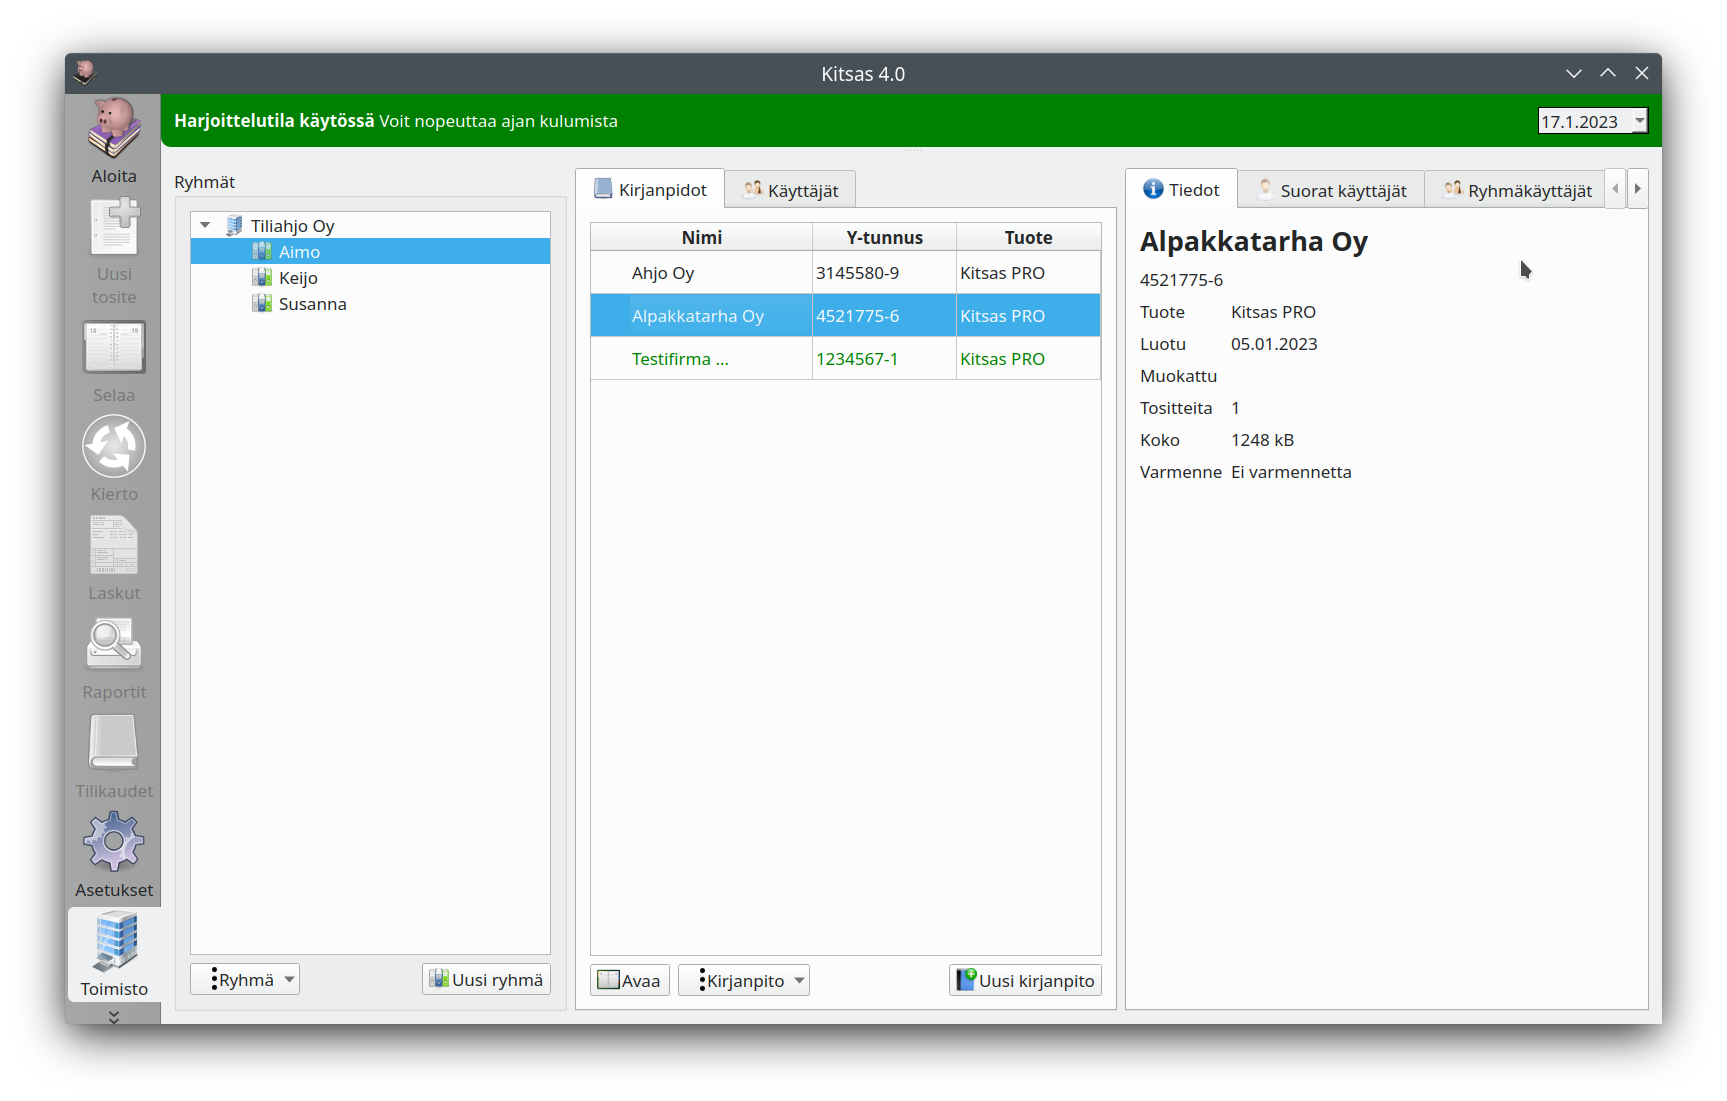
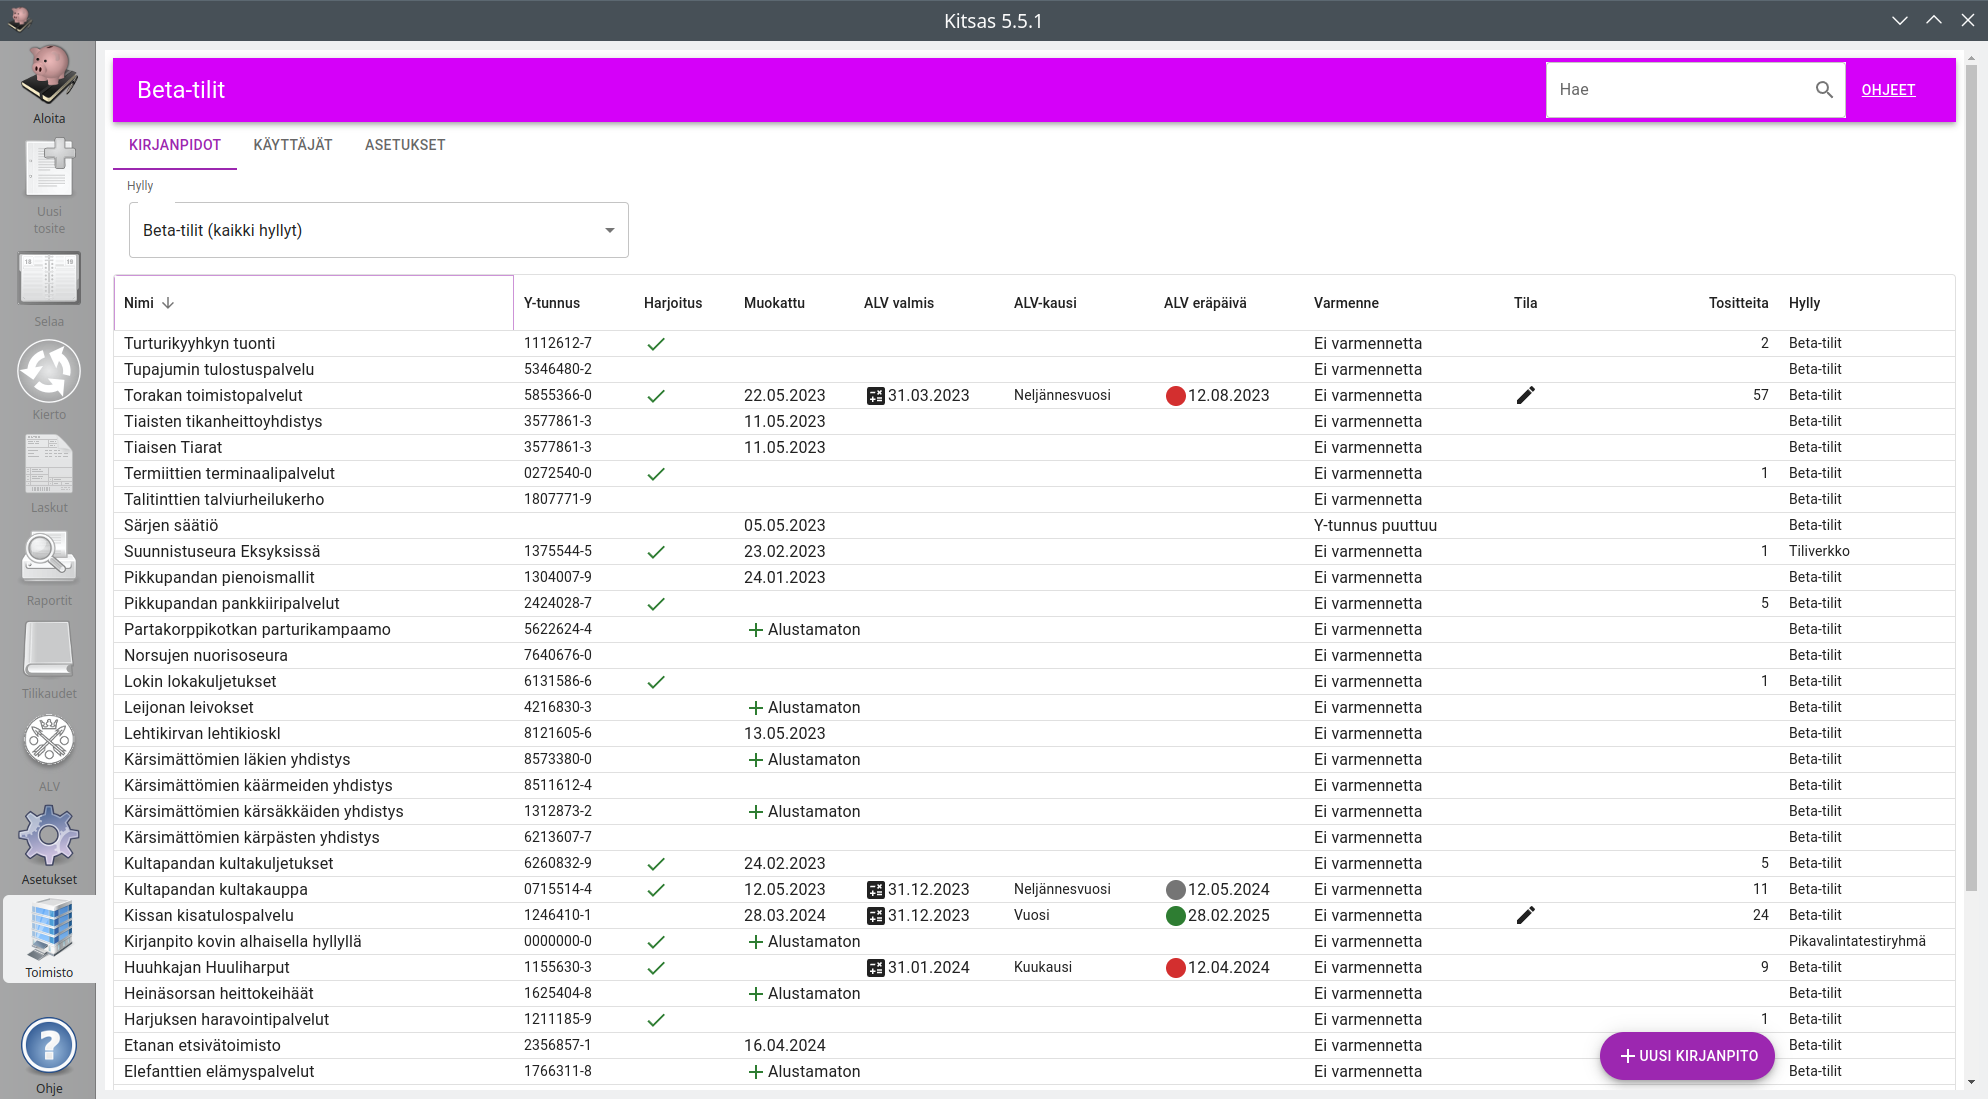
Toimistonäkymän ohjeita

diff --git a/content/fi/docs/toimisto/_index.md b/content/fi/docs/toimisto/_index.md
@@ -17,53 +17,29 @@ Lue lisää [Kitsas Pro:n tuotesivuilta](/pro)
 
 ## Tilitoimistonäkymä
 
+Tilitoimistonäkymässä voit mm. tarkastella kirjanpitojen tietoja, luoda uusia kirjanpitoja,  myöntää käyttöoikeuksia, järjestellä toimiston kirjanpidot hyllyihin ja ottaa tilitoimistolle käyttöön verohallinnon varmenteen.  Käyttäjälle näytettävät toiminnot ja kohteet määräytyvät käyttäjällä olevien [roolien ja lisäkäyttöoikeuksien]({{<relref "roolit">}}) perusteella.   
+
+### Kirjanpitojen lista
+
 ![](/img/fi/toimisto/toimisto.png)
 
-Tilitoimistonäkymän etusivulla on lista kirjanpidoista. Oletuksena listassa ovat kaikki tilitoimiston kirjanpidot, jos käyttäjällä on toimistotason oikeus tilitoimistonäkymään. Listan yläpuolella olevasta pudotusvalikosta voi valita tarkasteltavan hyllyn (vastaa aiemman version ryhmää). 
+ Tilitoimistonäkymän etusivulla on lista kirjanpidoista. Oletuksena listassa ovat kaikki tilitoimiston kirjanpidot, jos käyttäjällä on toimistotason oikeus tilitoimistonäkymään. Listan yläpuolella olevasta pudotusvalikosta voi valita tarkasteltavan hyllyn (vastaa aiemman version ryhmää). 
 
+Valitsemalla kirjanpidon rivin listasta saa näkyviin Avaa- ja Tiedot- napit. Muut toiminnot löytyvät Tiedot-napin takaa avautuvalta kirjanpidon omalta sivulta. Pääset sinne myös hakemalla yläpalkin hakukentässä kirjanpidon nimellä tai y-tunnuksella. Avaa- nappi on näkyvissä, jos käyttäjällä on kirjanpitoon mitä tahansa kirjanpito-oikeuksia. Tukikirjautuminen tehdään omasta napistaan kirjanpidon tietojen sivulta. 
 
-Käyttäjälle näytettävät kohteet määräytyvät käyttäjälle olevien [käyttöoikeuksien]({{<relref "kayttajat">}}) perusteella.
+### Uuden kirjanpidon perustaminen
 
-### Kirjanpidot
-
-Valitsemalla kirjanpidon rivin listasta saa näkyviin Avaa- ja Tiedot- napit. Muut toiminnot löytyvät Tiedot-napin takaa avautuvalta kirjanpidon omalta sivulta. Pääset sinne myös hakemalla yläpalkin hakujentässä kirjanpidon nimellä tai y-tunnuksella. Avaa- nappi on näkyvissä, jos käyttäjällä on kirjanpitoon mitä tahansa kirjanpito-oikeuksia. Tukikirjautuminen tehdään omasta napistaan kirjanpidon tietojen sivulta. 
-
-#### Uuden kirjanpidon perustaminen
-
-Kun haluamasi ryhmä on valittuna, paina **Uusi kirjanpito**-painiketta sivun oikeassa alakulmassa, ja syötä asiakasyrityksen perustiedot.
+Paina **Uusi kirjanpito**-painiketta sivun oikeassa alakulmassa, valitse hylly johon kirjanpito luodaan ja syötä asiakasyrityksen perustiedot.
 
 Uuden kirjanpidon kohdalla on Muokkaa-sarakkeesa vihreä plus-merkki ja teksti "Alustamaton". Kun kirjanpito avataan ensimmäistä kertaa, tehdään [kirjanpidon alustaminen]({{<relref "alustaminen">}}) ohjattuna toimintona.
 
-#### Kirjanpitojen listan järjestäminen ja suodattaminen
+### Kirjanpitojen listan järjestäminen ja suodattaminen
 
 Kirjanpitojen listan voi järjestää halutun sarakkeen mukaan klikkaamalla sarakkeen otsikkosolua tai valitsemalla haluamasi järjestyksen sarakkeen otsikkosolun valikosta (kolme pistettä).   Solussa näkyvä nuoli kertoo järjestyksen suunnan. Solua klikkamalla vaihdetaan nousevan, laskevan ja järjestämättömän (ei nuolta) välillä. Järjestää voi vain yhden sarakkeen perusteella kerrallaan. Toimistonäkymä muistaa valitsemasi järjestyksen palatessasi. 
 
-Voit suodattaa näytettäviä kirjanpitojvalitsemalla sarakkeen otsikkosolun valikosta "Suodata". Käytössä on enintään yksi suodatus kerrallaan. Toimistonäkymä muistaa käyttämäsi suodatuksen kunnes poistut toimistonäkymästä tai suljet ohjelman. 
+Voit suodattaa näytettäviä kirjanpitoja valitsemalla sarakkeen otsikkosolun valikosta **Suodata**. Käytössä on enintään yksi suodatus kerrallaan. Toimistonäkymä muistaa käyttämäsi suodatuksen kunnes poistut toimistonäkymästä tai suljet ohjelman. 
 
-##### Kirjanpitojen listan sarakkeiden kustomointi
+### Kirjanpitojen listan sarakkeiden kustomointi
 
-Voit tarvittaessa piilottaa haluamasi sarakkeen näkyvistävalitsemalla sarakkeen otsikkosolun valikosta"Piilota". Voit palauttaa sarakkeen näkyviin tai piilottaa useamman sarakkeen kerralla valitsemalla minkä tahansa sarakkeen otsikkosolun valikosta "Hallitse sarakkeita". Toimistonäkymä muistaa palatessasi mitkä sarakkeet näytetään.  
-
-
-
-
-### Käyttäjät
-
-Välilehdellä näytetään ryhmään liittyvät käyttöoikeudet, katso [käyttäjät ja käyttöoikeudet]({{<relref "kayttajat">}})
-
-### Kirjanpidon tiedot
-
-Kun kirjanpito on valittuna, näytetään oikeanpuoleisimmassa sarakkeessa kirjanpidon tarkempia tietoja
-
-#### Perustiedot
-
-Kirjanpidon nimi, tuote, tilastotietoja ja varmenteen tila.
-
-#### Suorat käyttäjät
-
-Käyttäjät, joilla on tähän nimenomaiseen kirjanpitoon erikseen määritelty käyttöoikeus. Suora käyttöoikeus voidaan määrittää esimerkiksi yrittäjälle tai tilintarkastajalle.
-
-#### Ryhmäkäyttäjät
-
-Käyttäjät, joille on käyttöoikeus tähän kirjanpitoon ryhmään (kirjanpidon ryhmä tai sen yläpuolella oleva ryhmä) kuulumisen perusteella.
+Voit tarvittaessa piilottaa haluamasi sarakkeen näkyvistä valitsemalla sarakkeen otsikkosolun valikosta **Piilota**. Voit palauttaa sarakkeen näkyviin tai piilottaa useamman sarakkeen kerralla valitsemalla minkä tahansa sarakkeen otsikkosolun valikosta **Hallitse sarakkeita**. Toimistonäkymä muistaa palatessasi mitkä sarakkeet näytetään.  
 

diff --git a/content/fi/docs/toimisto/kayttajat.md b/content/fi/docs/toimisto/kayttajat.md
@@ -1,56 +1,28 @@
 ---
 title: "Käyttäjät"
 linkTitle: "Käyttäjät"
-weight: 10
+weight: 30
 pro: true
 description: >
-  Käyttäjien ja käyttöoikeuksien määritteleminen
+  Käyttäjien tarkastelu ja työntekijöiden lisääminen
 ---
 
-## Ryhmä- ja käyttäjäkohtaiset oikeudet
+## Käyttäjät
 
-**Ryhmäkohtaiset oikeudet** koskevat ryhmän kaikkia kirjanpitoja sekä kaikkia alaryhmiä, joille kyseiselle käyttäjälle ei ole erikseen määritelty oikeuksia. Tilitoimiston työntekijöille on suositeltavaa määritellä oikeudet ryhmätasolla, jolloin niiden hallinta on yksinkertaisempaa.
+ Käyttäjät-osiossa on omat välilehdet työntekijöille ja muille käyttäjille. Voit tarkastella käyttäjiä ja lisätä ja poistaa toimiston työntekijöitä. Käyttäjät muokkaavat itse tietojaan Kitsaan asetusten Minä-sivulta. 
 
-Ryhmän voisi ajatella mappikaapiksi ja ryhmäoikeuden avaimeksi tähän kaappiin. Tällöin toimistotasolle myönnetty käyttöoikeus vastaisi yleisavainta toimiston kaikkiin mappikaappeihin.
+### Työntekijät
 
-**Suorat oikeudet** ovat yksittäiseen kirjanpitoon liittyviä oikeuksia, esimerkiksi yrittäjälle itselleen tai tilintarkastajalle.
-
-## Oikeuksien määritteleminen
+Voit lisätä työntekijäksi uuden käyttäjän. (Vanhoille käyttäjille voi tilitoimistonäkymästä vain myöntää oikeuksia hyllyihin ja kirjanpitoihin.) Pääset tarkastelemaan työntekijän oikeuksia tarkemmin klikkaamalla työntekijän nimeä listassa. Työntekijän poistaminen poistaa käyttäjän kaikki oikeudet ja poistaa käyttäjätunnuksen käytöstä. Käyttäjätunnuksen palauttamiseksi käyttöön on otettava yhteyttä käyttäjätukeen.
 
 Ryhmään lisätään käyttäjä **Käyttäjät**-välilehden **Uusi käyttäjä**-painikkeesta. Samalla välilehdellä on painikkeet myös oikeuksien muokkaamiselle ja käyttäjän poistamiselle ryhmästä.
 
 **Uusi käyttäjä**-painiketta käytetään riippumatta siitä, onko käyttäjällä jo käyttäjätunnus tai oikeuksia johonkin muuhun tilitoimiston ryhmään. Jos käyttäjätunnusta ei ole vielä olemassa, lähetetään käyttäjän sähköpostiin ohjeet ja linkki käyttäjätunnuksen aktivoimiseksi.
 
-## Käyttäjän oikeudet
+### Muut käyttäjät
 
-![](/img/fi/toimisto/ryhmaoikeudet.png)
+Tällä sivulla näkyvät (työntekijöitä lukuunottamatta) ne käyttäjät, joilla on oikeuksia johonkin tilitoimiston kirjanpitoon (tai hyllyyn). Pääset tarvittaessa tarkastelemaan käyttäjän oikeuksia tarkemmin klikkaamalla työntekijän nimeä listassa. 
 
-Käyttöoikeudet voidaan määritellä määräaikaisiksi (**Voimassa**-aikaväli) tai toistaiseksi voimassa oleviksi.
 
-Pikavalinnalla voit määritellä oikeudet jonkun aiemmin määritellyn [pikavalinnan]({{<relref "pikavalinnat">}}) mukaiseksi.
 
-### Kirjanpidon käyttöoikeudet
 
-Ryhmien **Tositeet**, **Laskut**, **Laskujen kierto**, **Raportit** ja **Ylläpito** valinnat ovat [kirjanpitojen käyttöoikeuksia]({{<relref "../asetukset/kayttooikeudet/#käyttöoikeudet">}}).
-
-Emme suosittele **Käyttöoikeuksien myöntäminen** -oikeuden käyttämistä tilitoimistoille. Valintaa tarvitaan oikeuksen hallintaan Asetukset-välilehden kautta, ja suosittelemme keskitettyä oikeuksien hallintaa **Toimisto**-välilehdellä (oikeudet **Yksittäisten käyttöoikeuksen myöntäminen** ja **Käyttäjäryhmien muokkaaminen**).
-
-### Ryhmään liittyvät oikeudet
-
-#### Tilitoimisto
-
-| Käyttöoikeus | Merkitys |
-|--------------|----------|
-| Kirjanpidon luominen  | Uuden kirjanpidon luominen |
-| Kirjanpidon siirtäminen ja poistaminen | Kirjanpitoon liittyvän tuotteen vaihtaminen, kirjanpidon siirtäminen (oikeus vaaditaan sekä nykyisessä että uudessä ryhmässä), kirjanpidon poistaminen
-| Yksittäisten käyttöoikeuksen myöntäminen | Yksittäisten kirjanpitokohtaisten oikeuksien myöntäminen tilitoimistonäkymässä, Kirjanpidon **Suorat käyttäjät**-välilehdellä. |
-| Tilitoimistonäkymä | Tilitoimistonäkymä ja kirjanpitojen selaaminen käyttäjälle, jolla ei ole muita tilitoimistojen  hallintaoikeuksia. |
-
-#### Hallinta
-| Käyttöoikeus | Merkitys |
-|--------------|----------|
-| Käyttäjäryhmien muokkaaminen | Ryhmäkohtaisten käyttöoikeuksien myöntäminen, muokkaaminen ja poistaminen |
-| Ryhmien muokkaaminen | Uusien ryhmien lisääminen, ryhmien uudelleennimeäminen ja poistaminen, pikavalintojen muokkaaminen |
-| Varmenteiden hallinta | Tilitoimiston varmenteen lisääminen ja poistaminen |
-| Kirjautumistietojen selaaminen | Kirjanpitojen kirjautumistietojen (käyttäjän nimi, kirjautumisten lukumäärä ja viimeisin kirjaaminen) näkeminen |
-| Tukikirjautuminen | Kirjautuminen Tukikirjautuminen-toiminnolla täysin oikeuksin kaikkiin ryhmän kirjanpitoihin |

diff --git a/content/fi/docs/toimisto/roolit.md b/content/fi/docs/toimisto/roolit.md
@@ -1,17 +1,39 @@
 ---
 title: "Roolit"
 linkTitle: "Roolit"
-weight: 30
-date: 2024-04-19
+weight: 20
+date: 2024-04-20
 keywords: ["rooli","roolit"]
 prp: true
 description: >
   Roolien tarkastelu, lisääminen ja muokkaaminen
 ---
 
-### Roolit
+![](/img/fi/toimisto/jarjestelmaoikeudet.png)
 
-Rooleilla määritellään joukko käyttöoikeuksia, jotka kaikilla roolin omaavilla käyttäjillä on.  Järjestelmäroolit on annettu valmiina eikä niitä voida toimistossa muokata. Toimiston omia rooleja voi lisätä, muokata ja poistaa. Kun roolia muokataan, roolin omaavien käyttäjien käyttöoikeudet päivittyvöt muokatun roolin mukaisiksi. Aiemmassa versiossa olleet pikavalinnat ovat roolien myötä poistuneet käytöstä. 
+Rooleilla määritellään joukko käyttöoikeuksia, jotka kaikilla roolin omaavilla käyttäjillä on.  Järjestelmäroolit on annettu valmiina eikä niitä voida toimistossa muokata. Toimiston omia rooleja voi lisätä, muokata ja poistaa. Kun roolia muokataan, roolin omaavien käyttäjien käyttöoikeudet päivittyvöt muokatun roolin mukaisiksi. Aiemmissa versiossa olleet pikavalinnat ovat roolien käyttönoton myötä poistuneet käytöstä. 
 
-Rooleja tarkastellaan ja muokataan toimistonäkymän asetusosiossa Roolit-sivulla. 
+### Kirjanpito-oikeudet
+
+Valinta **Kaikki kirjanpito-oikeudet** ja otsikoiden **Tositteet**, **Laskut**, **Laskujen kierto**, **Raportit**, **Työkalut** ja **Asetukset** ylimmäiset valinnat ovat useampia oikeuksia antavia koosteoikeuksia.
+
+<!-- 
+Emme suosittele **Käyttöoikeuksien myöntäminen** -oikeuden käyttämistä tilitoimistoille. Valintaa tarvitaan oikeuksen hallintaan Asetukset-välilehden kautta, ja suosittelemme keskitettyä oikeuksien hallintaa **Toimisto**-välilehdellä (oikeudet **Yksittäisten käyttöoikeuksen myöntäminen** ja **Käyttäjäryhmien muokkaaminen**). -->
+
+### Toimisto-oikeudet
+
+| Käyttöoikeus | Merkitys |
+|--------------|----------|
+| Kaikki toimiston hallintaoikeudet | Koosteoikeus joka käsittää kaikki alla olevat oikeudet
+| Toimistonäkymä | Tilitoimistonäkymä ja kirjanpitojen selaaminen 
+| Sertifikaattien hallinta | Tilitoimiston varmenteen lisääminen ja poistaminen |
+| Kirjanpitojen luominen  | Uuden kirjanpidon luominen |
+| Kirjanpitojenon siirtäminen ja poistaminen | Kirjanpitoon liittyvän tuotteen vaihtaminen, kirjanpidon siirtäminen (oikeus vaaditaan sekä nykyisessä että uudessä ryhmässä), kirjanpidon poistaminen
+| Kirjanpitohyllyjen hallinta | Hyllyjen lisääminen, uudelleennimeäminen ja poistaminen
+| Roolien hallinta | Toimiston omien roolien lisääminen, muokkaaminen ja poistaminen, 
+| Lokien selaaminen | Kirjanpitojen kirjautumistietojen (käyttäjän nimi, kirjautumisten lukumäärä ja viimeisin kirjaaminen) näkeminen |
+| Käyttöoikeuksien hallinta | Kirjanpito-oikeuksien myöntäminen hyllyihin ja kirjanpitoihin
+| Toimisto-oikeuksien myöntäminen |
+| Tukikirjautuminen | Kirjautuminen Tukikirjautuminen-toiminnolla täysin oikeuksin kaikkiin hyllyn kirjanpitoihin |
+
 

diff --git a/content/fi/docs/toimisto/kirjanpito.md b/content/fi/docs/toimisto/kirjanpito.md
@@ -1,39 +1,39 @@
 ---
-title: "Kirjanpidon sivu"
-linkTitle: "Kirjanpito"
-weight: 10
+title: "Kirjanpidon tiedot"
+linkTitle: "Kirjanpidon tiedot"
+weight: 70
 keywords: ["kirjanpito"]
 pro: true
 description: >
   Kirjanpidon tietojen ja toimintojen sivu
 ---
 
-### Kirjanpidon tietojen sivu
+![](/img/fi/toimisto/kirjanpidontiedot.png)
 
 Kirjanpidon tietojen sivulla voi tarkastella kirjanpidon tietoja tehdä kirjanpitoa koskevia toimintoja. 
 
-##### Avaa
+### Avaa
 
 Avaa kirjanpidon käyttäjän normaaleilla oikeuksilla
 
-##### Tukikirjautuminen
+### Tukikirjautuminen
 
 Käyttäjä, jolle on määritelty **Tukikirjautuminen**-oikeus, voi kirjautua täysillä käyttöoikeuksilla kirjanpitoon. Kirjautumisesta jää jälki lokitietoihin.
 
-#### Oikeudet
+### Oikeudet
 
 Siirrytään tarkastelemaan ja muokkaamaan käyttäjien oikeuksia kirjanpitoon.
 
 #### Kirjautumiset
 
-Siirrytään tarkastelemaab käyttäjien kirjautumisia tähän kirjanpitoon.
+Siirrytään tarkastelemaan käyttäjien kirjautumisia tähän kirjanpitoon.
 
 
-##### Siirrä kirjanpito
+### Siirrä kirjanpito
 
-Siirrä kirjanpito toiseen hyllyyn. Kirjanpidon hyllykohtaiset käyttöoikeudet muuttuvat välittömästi uuden hyllyn mukaisiksi-
+Siirrä kirjanpito toiseen hyllyyn. Kirjanpidon hyllykohtaiset käyttöoikeudet muuttuvat välittömästi uuden hyllyn mukaisiksi.
 
-##### Poista
+#### Poista
 
 Poistaa kirjanpidon pysyvästi.
 

diff --git a/content/fi/docs/toimisto/hyllyt.md b/content/fi/docs/toimisto/hyllyt.md
@@ -1,32 +1,31 @@
 ---
 title: "Hyllyt"
 linkTitle: "Hyllyt"
-weight: 40
+weight: 10
 keywords: ["hylly","kirjahylly"]
 pro: true
 description: >
   Tilitoimiston kirjanpidot voi järjestää hyllyihin
 ---
 
-### Hyllyt
-
+![](/img/fi/toimisto/hyllyt.png)
 Isomman tilitoimiston kannattaa jakaa kirjanpidot **hyllyihin** (aiemmassa versiossa ryhmä), ja määritellä käyttäjäoikeudet hyllykohtaisesti.
 
 Hyllyjen perustaminen ei ole pakollista, vaan kaikki kirjanpidot ja käyttäjät voidaan määritellä myös suoraan tilitoimiston tasolle valmiiksi määritellylle "tilitoimistohyllylle".
 
 Hyllyjä hallinnoidaan tilitoimistonäkymän Asetukset-osion Kirjahyllyt-sivulla.
 
-##### Uuden hyllyn perustaminen
+### Uuden hyllyn perustaminen
 
 Paina **Uusi Hylly**-painiketta ja anna sitten hyllylle nimi ja valitse minkä hyllyn alle haluat sen perustaa.
 
-##### Hyllyn nimen muokkaaminen ja hyllyn poistaminen
+### Hyllyn nimen muokkaaminen ja hyllyn poistaminen
 
 Voit muuttaa valitun hyllyn nimeä **Muokkaa nimeä**-painikkeesta.
 
 **Poista**-painikkeesta voit poistaa hyllyn. Vain tyhjän hyllyn voi poistaa.
 
-#### Oikeuksien antaminen hyllyyn
+### Oikeuksien antaminen hyllyyn
 
 Hyllyt-sivun Oikeudet-napista pääsee tarkastelemaan ja muokkaamaan käyttäjien oikeuksia hyllyyn. Pääset hyllyn oikeuksien sivulle myös hakemalla hyllyn nimellä, jos sinulla on oikeudet oikeuksien myöntämiseen.
 

diff --git a/content/fi/docs/toimisto/alustaminen.md b/content/fi/docs/toimisto/alustaminen.md
@@ -1,7 +1,7 @@
 ---
 title: "Kirjanpidon aloittaminen"
 linkTitle: "Kirjanpidon aloittaminen"
-weight: 40
+weight: 60
 pro: true
 keywords: ["uusi","tilinavaus"]
 description: >
